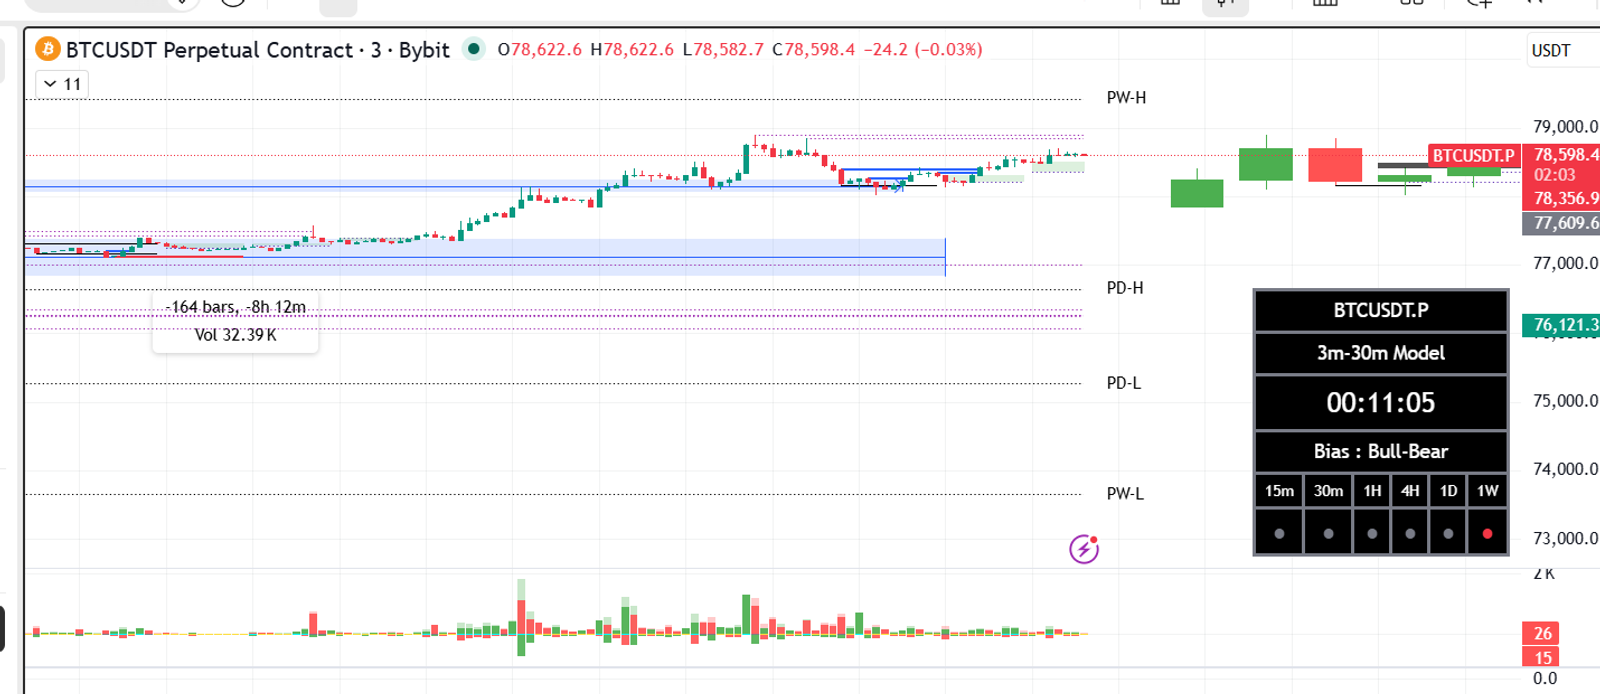
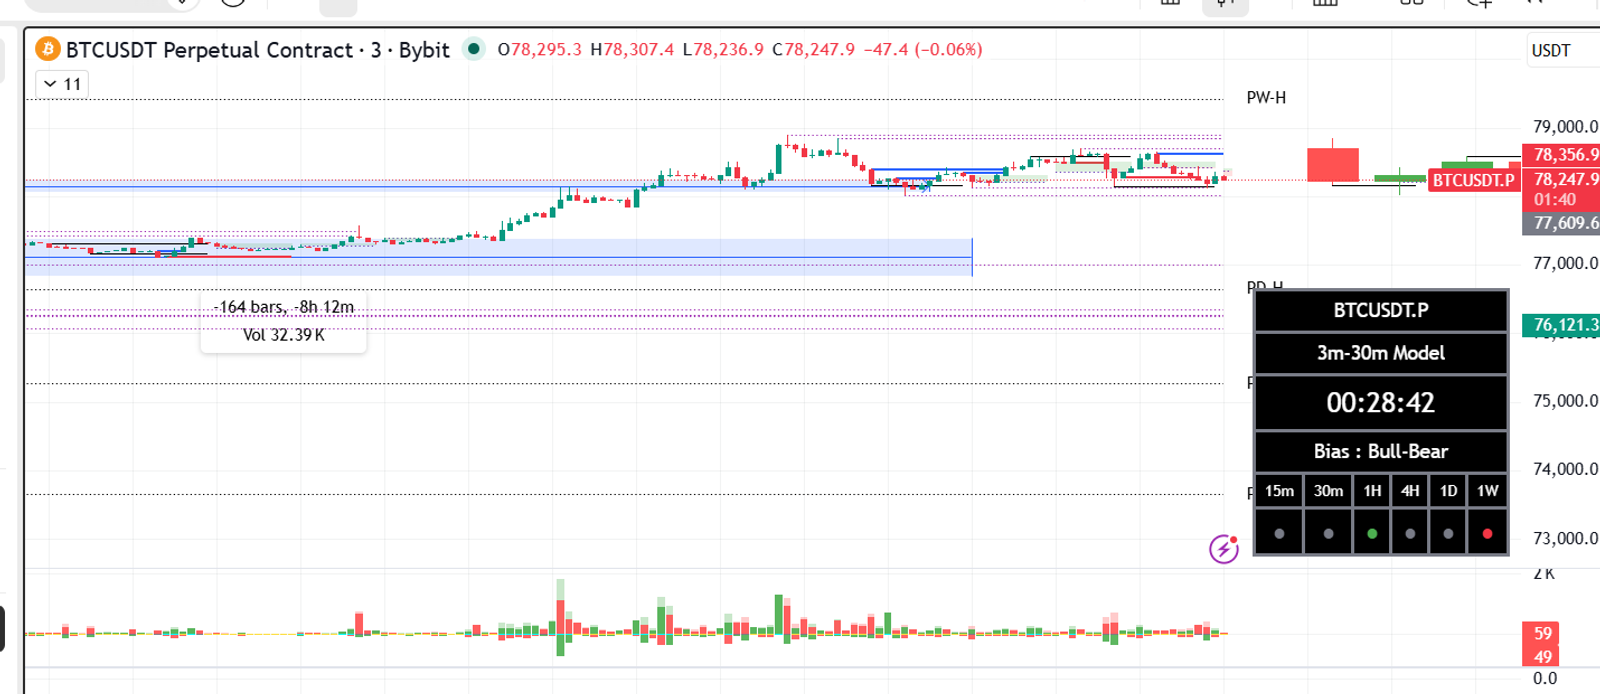
feat(wyckoff): word export + fixed SMC_X charts (no overlap)
- Added '📄 ייצא ל-Word' button at top of report
- Uses html-docx-js (CDN) to convert report → .docx
- Embeds images as base64 in the Word file
- Saves to user's Downloads folder via browser download
- Print-mode hides the button + TOC

SMC_X charts updated with bar spacing:
- 15m: bar spacing 8 (110 bars fill ~70% of chart, dashboard separated)
- 5m: bar spacing 7 (145 bars)
- 3m: bar spacing 6 (165 bars)

diff --git a/wyckoff/latest.html b/wyckoff/latest.html
@@ -65,13 +65,59 @@
   .toc a { color: #0a4; text-decoration: none; margin-inline-end: 16px; font-size: 14px; }
   .gen-banner { background: #0a7; color: white; padding: 10px 16px; border-radius: 6px; margin: 0 0 12px; font-size: 14px; display: flex; justify-content: space-between; align-items: center; flex-wrap: wrap; gap: 8px; }
   .gen-banner .label { opacity: 0.85; font-size: 12px; }
+  .export-btn { background: #d4a017; color: white; border: none; padding: 8px 16px; border-radius: 6px; font-size: 14px; font-weight: 600; cursor: pointer; box-shadow: 0 2px 4px rgba(0,0,0,0.1); transition: all 0.2s; }
+  .export-btn:hover { background: #c19412; transform: translateY(-1px); box-shadow: 0 4px 8px rgba(0,0,0,0.15); }
+  .export-btn:active { transform: translateY(0); }
+  @media print { .export-btn, .toc { display: none !important; } }
 </style>
+<script src="https://cdnjs.cloudflare.com/ajax/libs/html-docx-js/0.3.1/html-docx.js"></script>
+<script>
+function exportToWord() {
+  const reportTitle = document.title || 'Wyckoff-Report';
+  const date = new Date().toISOString().slice(0, 10);
+  const filename = `${reportTitle.replace(/[^\w֐-׿\-]/g, '_')}_${date}.docx`;
+
+  // Clone document and inline images as base64 (so they're embedded in the docx)
+  const docClone = document.documentElement.cloneNode(true);
+  // Remove the export button from clone
+  docClone.querySelectorAll('.export-btn').forEach(el => el.remove());
+
+  Promise.all(Array.from(docClone.querySelectorAll('img')).map(img => {
+    return new Promise(resolve => {
+      const realImg = document.querySelector(`img[src="${img.getAttribute('src')}"]`);
+      if (!realImg || !realImg.complete) return resolve();
+      try {
+        const canvas = document.createElement('canvas');
+        canvas.width = realImg.naturalWidth;
+        canvas.height = realImg.naturalHeight;
+        canvas.getContext('2d').drawImage(realImg, 0, 0);
+        img.setAttribute('src', canvas.toDataURL('image/png'));
+      } catch(e) { console.warn('Could not embed', img.src, e); }
+      resolve();
+    });
+  })).then(() => {
+    const html = '<!DOCTYPE html><html dir="rtl" lang="he">' + docClone.innerHTML + '</html>';
+    const converted = htmlDocx.asBlob(html, { orientation: 'portrait', margins: { top: 720, right: 720, bottom: 720, left: 720 } });
+    const url = URL.createObjectURL(converted);
+    const a = document.createElement('a');
+    a.href = url;
+    a.download = filename;
+    document.body.appendChild(a);
+    a.click();
+    document.body.removeChild(a);
+    setTimeout(() => URL.revokeObjectURL(url), 100);
+  });
+}
+</script>
 </head>
 <body>
 
   <div class="gen-banner">
     <span><strong>📊 דוח נוצר:</strong> 2026-05-01 18:41 שעון ישראל</span>
-    <span class="label">BYBIT:BTCUSDT.P · ניתוח Wyckoff מלא</span>
+    <span style="display:flex;gap:8px;align-items:center;">
+      <button class="export-btn" onclick="exportToWord()">📄 ייצא ל-Word</button>
+      <span class="label">BYBIT:BTCUSDT.P</span>
+    </span>
   </div>
 
   <div class="toc"><strong>תוכן עניינים:</strong>
